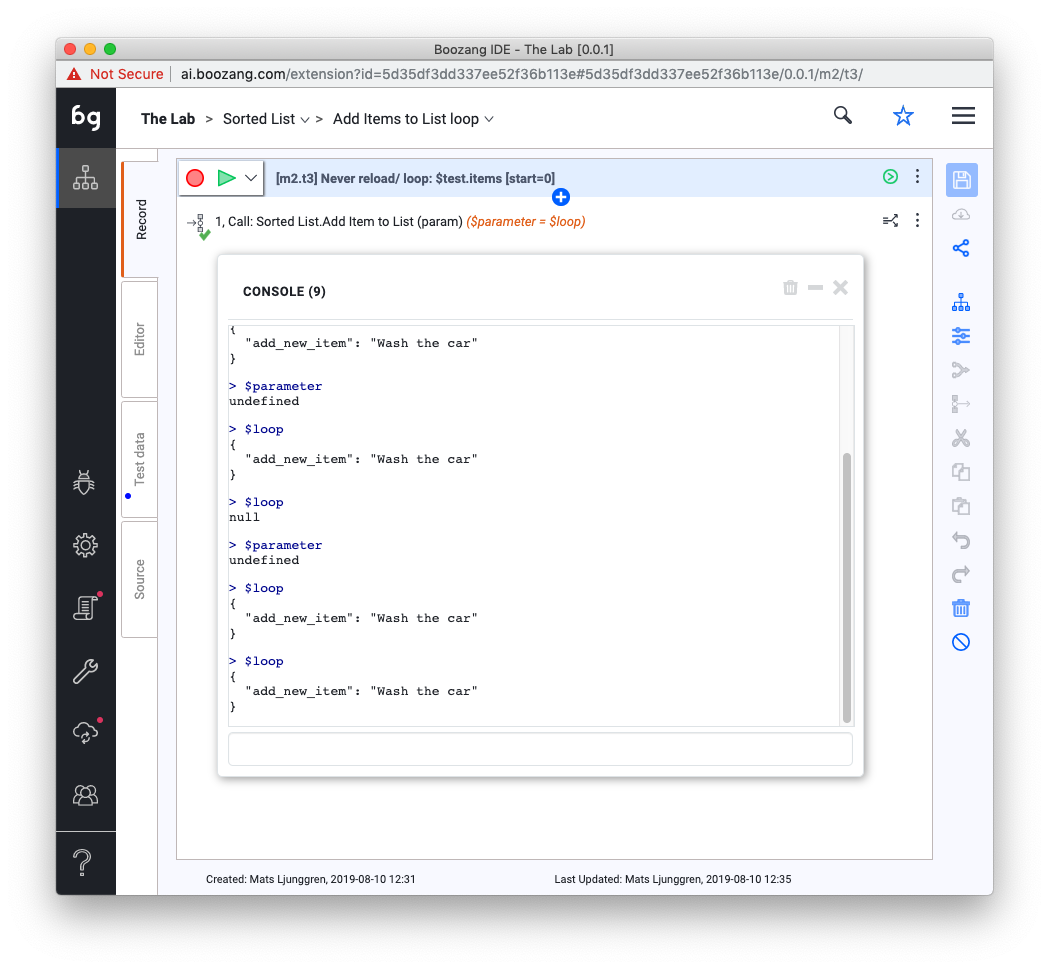
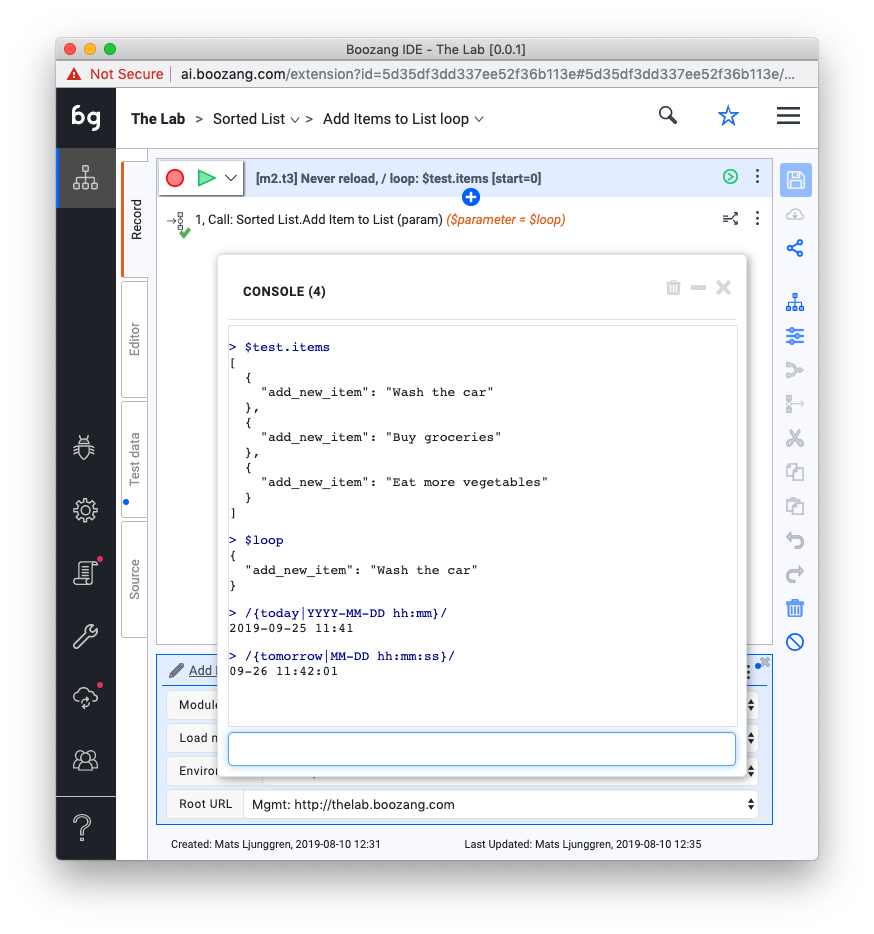
Updated docs

Changed region(s): [[0.0309, 0.031, 0.9577, 0.9315], [0.4325, 0.4036, 0.5561, 0.4347]]

diff --git a/public/index.html b/public/index.html
@@ -438,13 +438,21 @@
 <p>When enabling data bind and clicking autofill form, Boozang will look in the current data scope for matching data. If that isn´t found, Boozang will use the regexp engine to generate the data in the current scope, and automatically bind the data scope to the form. This is a great way to quicky create a data-driven test case.</p>
 <p><em>Tip: Using autofill with data bind on <code>$parameter</code> scope is a quick way to create a very versatile  data-driven test case.</em> </p>
 <h3 id="troubleshooting-data">Troubleshooting data</h3>
-<p><strong><img src="images/console.png" alt="console" />Console window</strong></p>
+<p><strong>Console window</strong></p>
+<p><img src="/Users/matsljunggren/Workspace/boozang-docs/images/console.png" alt="console" /></p>
 <p>When running a test it is sometimes desirable to inspect the data that is being run. In many cases, upstream test cases are sending data as parameters, and it gets even more tricky when data is being loaded from external data sources or Javascript functions. In order to inspect the data that is being used, you can use the console window. This window is located in the hamburger menu and allows users to spy on data.</p>
-<p><strong>Commands</strong></p>
-<p>There will be command soon (roadmap). </p>
+<p>The console can be used to check the following data:</p>
+<ul>
+<li>Assigned data: <code>$parameter</code>, <code>$test</code>, <code>$module</code>, and <code>$project</code></li>
+<li>Loop data: <code>$loop</code></li>
+<li>Regexp data generators: <code>/[a-z]{3,10}@bzmail[.]com/</code> (email),  <code>/[A-Z][0-9][A-Z] [0-9][A-Z][0-9]/</code> (Canadian zipcode)</li>
+<li>Complex data generators: <code>/{today|YYYY-MM-DD}/</code>, <code>/{tomorrow|MM/DD hh:ss}/</code></li>
+</ul>
 <p><strong>Tmp data</strong></p>
+<p><img src="/Users/matsljunggren/Workspace/boozang-docs/images/tmpdata.png" alt="tmpdata" /></p>
 <p>There is also another way to inspect data and do more advanced trouble-shooting. For each action, in the action details menu you can find a link called &quot;Tmp data&quot;. This data is updated every time a test is run and will show the data that was used when the action was run. This also allows you to keep the last input data that was used, and replay the action with this data.</p>
-<p>To re-run the action with the data displayed, simply check the checkbox &quot;As initial data for playing the action&quot;. In order to keep this data (not override the data in the next run) hit the &quot;keep&quot; button, and the data will be saved in the keep tab. </p>
+<p>To inpect data during a run, simply add a breakpoint to the test or pause the test case during a run. Click on the action that uses the data, and click &quot;Tmp data&quot; in action details. </p>
+<p>To re-run the action with the data that you see in the &quot;Tmp data&quot; window, simply check the checkbox &quot;As initial data for playing the action&quot;. In order to keep this data (not override the data in the next run) hit the &quot;keep&quot; button, and the data will be saved in the keep tab. </p>
 <p><em>Tip: Hit keep and Save to save the action data in data-base to trouble-shoot with other team members.</em></p>
 <h2 id="settings">Settings</h2>
 <h3 id="environment">Environment</h3>
@@ -537,6 +545,7 @@
 <p>This powerful wild-card batch operation is used to search both for project, modules, tests and data. Useful for large projects to locate lost data and for doing quick project cleanups. </p>
 <h2 id="advanced-testing-methods">Advanced testing methods</h2>
 <h3 id="loops">Loops</h3>
+<p><img src="/Users/matsljunggren/Workspace/boozang-docs/images/rollercoaster-801833_1280.jpg" alt="rollercoaster-801833_1280" /></p>
 <p>Loops are supported over CSV data, Arrays, Matrix data, and External data (if data is in CSV or Matrix format) .</p>
 <p><strong>Setting up a simple data loop</strong></p>
 <h3 id="matrix-testing">Matrix testing</h3>
@@ -591,10 +600,12 @@ Accept:&quot;json&quot;
 <p><strong>Getting the Access token</strong></p>
 <p>An access token can retrived in the Boozang Management UI by clicking the Account -&gt; Get Token and entering your password. Keep this token secret and safe. </p>
 <p><strong>Generating a tokenized test URL</strong></p>
+<p><img src="/Users/matsljunggren/Workspace/boozang-docs/images/share-test-tokenized.png" alt="share-test-tokenized" /></p>
 <p>It can also be retrived from the IDE interface when sharing a single test. The user will again be prompted for a password to get a tokenized test URL, which can be run from command-line.  </p>
 <p><strong>Running from command-line</strong></p>
 <p>There are many ways to run Boozang tests from the command line but here are the recommended options: Installing the test runner using the <strong>Docker Xvfb container</strong> or <strong>Boozang npm package</strong>. </p>
 <h3 id="docker-xvfb-container">Docker Xvfb container</h3>
+<p><img src="/Users/matsljunggren/Workspace/boozang-docs/images/docker-logo.png" alt="docker-logo" /></p>
 <p>The test runner is Open Source and the Docker container can be found here: <a href="https://hub.docker.com/r/styrman/boozang-runner/">https://hub.docker.com/r/styrman/boozang-runner/</a> and corresponding source code here: <a href="https://github.com/ljunggren/bz-docker-xvfb">https://github.com/ljunggren/bz-docker-xvfb</a></p>
 <p><strong>Installing Docker CE</strong> </p>
 <p>Docker is widely supported but does require some amount of disk space. In order to find installation intructions for your operation system, follow the guide here: <a href="https://docs.docker.com/install/">https://docs.docker.com/install/</a> (make sure to select your operating system in the left menu navigation) .</p>
@@ -620,6 +631,7 @@ Accept:&quot;json&quot;
 <p><strong>Additional CLI options</strong></p>
 <p>To find current supported command-line options, see Docker Github readme: <a href="https://github.com/ljunggren/bz-docker-xvfb">https://github.com/ljunggren/bz-docker-xvfb</a> and command-line runner README: <a href="https://github.com/ljunggren/bz-puppeteer">https://github.com/ljunggren/bz-puppeteer</a>.</p>
 <h3 id="npm-package">NPM Package</h3>
+<p><img src="/Users/matsljunggren/Workspace/boozang-docs/images/nodejs-logo.jpg" alt="nodejs-logo" /></p>
 <p>The NPM package is Open source and the source code can be found here: <a href="https://github.com/ljunggren/bz-puppeteer">https://github.com/ljunggren/bz-puppeteer</a></p>
 <p><strong>Installing NodeJS</strong></p>
 <p>NodeJS is widely supported. We recommend that you run Node v8.9.0+ (we rely on async/await so NodeJS 6.x is not supported). To install NodeJS we recommend using a package manager (<a href="https://nodejs.org/en/download/package-manager/">https://nodejs.org/en/download/package-manager/</a>) but you can also install it from source (<a href="https://nodejs.org/en/download/">https://nodejs.org/en/download/</a>). </p>
@@ -661,6 +673,7 @@ Accept:&quot;json&quot;
 <p><strong>Additional CLI options</strong></p>
 <p>To find current supported command-line options, see Github readme: <a href="https://github.com/ljunggren/bz-puppeteer">https://github.com/ljunggren/bz-puppeteer</a></p>
 <h3 id="parallel-test-execution-and-test-scheduling">Parallel test execution and test scheduling</h3>
+<p><img src="/Users/matsljunggren/Workspace/boozang-docs/images/parallel-unsplash.jpg" alt="parallel-unsplash" /></p>
 <p>Installing the Docker container makes it dead simple to create your own test excution scripts. Here are a few examples </p>
 <p><strong>Running from cronjob</strong></p>
 <p>It's easy to setup a cronjob that runs a Boozang test at a scheduled time. Simply type</p>
@@ -686,6 +699,7 @@ Accept:&quot;json&quot;
 <p>We therefore encourage our users to keep there custom code open source, and share it openly. We also encourage you to let us know at <em>opensource@boozang.com</em> so we can link to it. </p>
 <h2 id="references">References</h2>
 <h3 id="security">Security</h3>
+<p><img src="/Users/matsljunggren/Workspace/boozang-docs/images/hacker-1944688_1280.jpg" alt="hacker-1944688_1280" /></p>
 <p><strong>Fragment security</strong></p>
 <p>When installing the bz-fragment we get the security of the web browser without the limitation of being bound to Chrome extension policy. This limits cross-browser execution, but allows running Boozang without the need of any Extension. </p>
 <p>Note: This requires access to the application directory to install an HTML fragment. </p>
@@ -694,6 +708,7 @@ Accept:&quot;json&quot;
 <p><strong>Hosting</strong></p>
 <p>In our Cloud, we simply host the data you enter into our system and the tests, including our proprietary element selectors. To get an understanding of the kind of data we store, you can look at the Source tab on any test. Our servers are located in Canada. </p>
 <h3 id="trade-offs">Trade-offs</h3>
+<p><img src="/Users/matsljunggren/Workspace/boozang-docs/images/justice-423446_1280.jpg" alt="justice-423446_1280" /></p>
 <p>There are several limitations to the Boozang technology, some that are a limiting factor of the technology and security of the browser context, and others that are conscious product decisions. Here is an attempt to address some of them head-on.</p>
 <p><strong>Only web</strong></p>
 <p>Boozang support only testing web and hybrid applications. There are plenty of good tools to test native and desktop applications in the market, and we will be happy to recommend some. When doing testing across web and native/desktop, we recommend driving the tests on the web over Boozang, while driving the other tests over another tool. Boozang has excellent support to read data from external sources and is designed to be able to have a source of truth outside the tool. </p>

diff --git a/README.md b/README.md
@@ -754,23 +754,30 @@ When enabling data bind and clicking autofill form, Boozang will look in the cur
 
 ### Troubleshooting data
 
-**![console](images/console.png)Console window**
+**Console window**
+
+![console](/Users/matsljunggren/Workspace/boozang-docs/images/console.png)
 
 When running a test it is sometimes desirable to inspect the data that is being run. In many cases, upstream test cases are sending data as parameters, and it gets even more tricky when data is being loaded from external data sources or Javascript functions. In order to inspect the data that is being used, you can use the console window. This window is located in the hamburger menu and allows users to spy on data.
 
-**Commands**
+The console can be used to check the following data:
 
-There will be command soon (roadmap). 
-
-
+- Assigned data: `$parameter`, `$test`, `$module`, and `$project`
+- Loop data: `$loop`
+- Regexp data generators: `/[a-z]{3,10}@bzmail[.]com/` (email),  `/[A-Z][0-9][A-Z] [0-9][A-Z][0-9]/` (Canadian zipcode)
+- Complex data generators: `/{today|YYYY-MM-DD}/`, `/{tomorrow|MM/DD hh:ss}/`
 
 
 
 **Tmp data**
 
+![tmpdata](/Users/matsljunggren/Workspace/boozang-docs/images/tmpdata.png)
+
 There is also another way to inspect data and do more advanced trouble-shooting. For each action, in the action details menu you can find a link called "Tmp data". This data is updated every time a test is run and will show the data that was used when the action was run. This also allows you to keep the last input data that was used, and replay the action with this data.
 
-To re-run the action with the data displayed, simply check the checkbox "As initial data for playing the action". In order to keep this data (not override the data in the next run) hit the "keep" button, and the data will be saved in the keep tab. 
+To inpect data during a run, simply add a breakpoint to the test or pause the test case during a run. Click on the action that uses the data, and click "Tmp data" in action details. 
+
+To re-run the action with the data that you see in the "Tmp data" window, simply check the checkbox "As initial data for playing the action". In order to keep this data (not override the data in the next run) hit the "keep" button, and the data will be saved in the keep tab. 
 
 *Tip: Hit keep and Save to save the action data in data-base to trouble-shoot with other team members.*
 
@@ -968,6 +975,8 @@ This powerful wild-card batch operation is used to search both for project, modu
 
 ### Loops
 
+![rollercoaster-801833_1280](/Users/matsljunggren/Workspace/boozang-docs/images/rollercoaster-801833_1280.jpg)
+
 Loops are supported over CSV data, Arrays, Matrix data, and External data (if data is in CSV or Matrix format) .
 
 
@@ -1079,6 +1088,8 @@ An access token can retrived in the Boozang Management UI by clicking the Accoun
 
 **Generating a tokenized test URL**
 
+![share-test-tokenized](/Users/matsljunggren/Workspace/boozang-docs/images/share-test-tokenized.png)
+
 It can also be retrived from the IDE interface when sharing a single test. The user will again be prompted for a password to get a tokenized test URL, which can be run from command-line.  
 
 **Running from command-line**
@@ -1086,6 +1097,8 @@ It can also be retrived from the IDE interface when sharing a single test. The u
 There are many ways to run Boozang tests from the command line but here are the recommended options: Installing the test runner using the **Docker Xvfb container** or **Boozang npm package**. 
 
 ### Docker Xvfb container 
+
+![docker-logo](/Users/matsljunggren/Workspace/boozang-docs/images/docker-logo.png)
 
 The test runner is Open Source and the Docker container can be found here: https://hub.docker.com/r/styrman/boozang-runner/ and corresponding source code here: https://github.com/ljunggren/bz-docker-xvfb
 
@@ -1136,6 +1149,8 @@ and when you are happy with it, finally push it to the Cloud
 To find current supported command-line options, see Docker Github readme: https://github.com/ljunggren/bz-docker-xvfb and command-line runner README: https://github.com/ljunggren/bz-puppeteer.
 
 ### NPM Package
+
+![nodejs-logo](/Users/matsljunggren/Workspace/boozang-docs/images/nodejs-logo.jpg)
 
 The NPM package is Open source and the source code can be found here: https://github.com/ljunggren/bz-puppeteer
 
@@ -1227,6 +1242,8 @@ To find current supported command-line options, see Github readme: https://githu
 
 ### Parallel test execution and test scheduling
 
+![parallel-unsplash](/Users/matsljunggren/Workspace/boozang-docs/images/parallel-unsplash.jpg)
+
 Installing the Docker container makes it dead simple to create your own test excution scripts. Here are a few examples 
 
 **Running from cronjob**
@@ -1272,6 +1289,8 @@ We therefore encourage our users to keep there custom code open source, and shar
 
 ### Security
 
+![hacker-1944688_1280](/Users/matsljunggren/Workspace/boozang-docs/images/hacker-1944688_1280.jpg)
+
 **Fragment security**
 
 When installing the bz-fragment we get the security of the web browser without the limitation of being bound to Chrome extension policy. This limits cross-browser execution, but allows running Boozang without the need of any Extension. 
@@ -1287,6 +1306,8 @@ As we are running locally in your web browser it´s been easier to be GDPR compl
 In our Cloud, we simply host the data you enter into our system and the tests, including our proprietary element selectors. To get an understanding of the kind of data we store, you can look at the Source tab on any test. Our servers are located in Canada. 
 
 ### Trade-offs
+
+![justice-423446_1280](/Users/matsljunggren/Workspace/boozang-docs/images/justice-423446_1280.jpg)
 
 There are several limitations to the Boozang technology, some that are a limiting factor of the technology and security of the browser context, and others that are conscious product decisions. Here is an attempt to address some of them head-on.
 
